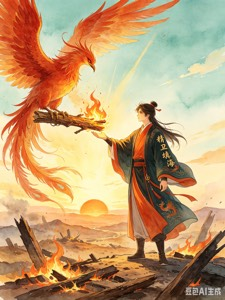
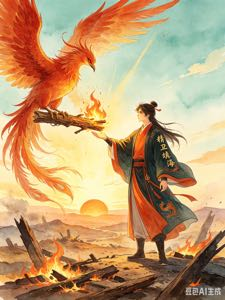
perf: 图片再压缩(shanshui→70KB,type→15KB) + 五房间卡片加神兽头像

diff --git a/index.html b/index.html
@@ -1639,7 +1639,8 @@ function startGame(){
 }
 function confirmNickname(){
   var inp = document.getElementById('modalNi');
-  var nn = (inp?inp.value.trim():'')||'匿名棋手';
+  var nn = (inp?inp.value.trim():'');
+  if(!nn){ alert('请输入你的昵称'); if(inp)inp.focus(); return; }
   closeModal();
   S.nickname = nn;
   var data = getStorage(); data.nickname = nn; saveStorage(data);
@@ -2850,7 +2851,8 @@ function renderReport() {
         return '<div style="margin-bottom:14px;background:var(--card);border-radius:14px;border:1px solid var(--border);overflow:hidden;">' +
           // 房间标题（可点击展开）
           '<div onclick="var d=document.getElementById(\'rd'+ri+'\');d.style.display=d.style.display==\'none\'?\'block\':\'none\';var a=document.getElementById(\'rdArrow'+ri+'\');a.textContent=d.style.display==\'none\'?\'▸\':\'▾\';" style="cursor:pointer;display:flex;align-items:center;gap:10px;padding:14px 16px;transition:background 0.2s;">' +
-            '<span style="font-size:24px;">' + rd.meta.icon + '</span>' +
+            // 匹配房间风格对应的神兽图
+            (function(){ var rk=rd.roomStyle['势']+'_'+rd.roomStyle['局']; for(var bi=0;bi<FOUR_BEASTS.length;bi++){ var b=FOUR_BEASTS[bi]; var br=b.rule.replace(/ /g,'').replace('×','_'); if(rk===br) return '<img loading="lazy" src="'+b.img+'" style="width:36px;height:36px;border-radius:50%;object-fit:cover;border:2px solid '+b.color+';flex-shrink:0;" alt="">'; } return ''; })() +
             '<div style="flex:1;">' +
               '<div style="font-weight:700;font-size:15px;color:var(--accent);">' + rd.room + ' · <span style="font-size:13px;font-weight:400;color:var(--sub);">' + rd.roomFinal.toFixed(1) + '分</span></div>' +
               '<div style="font-size:10px;color:var(--sub);">' + rd.meta.focus + '</div>' +
